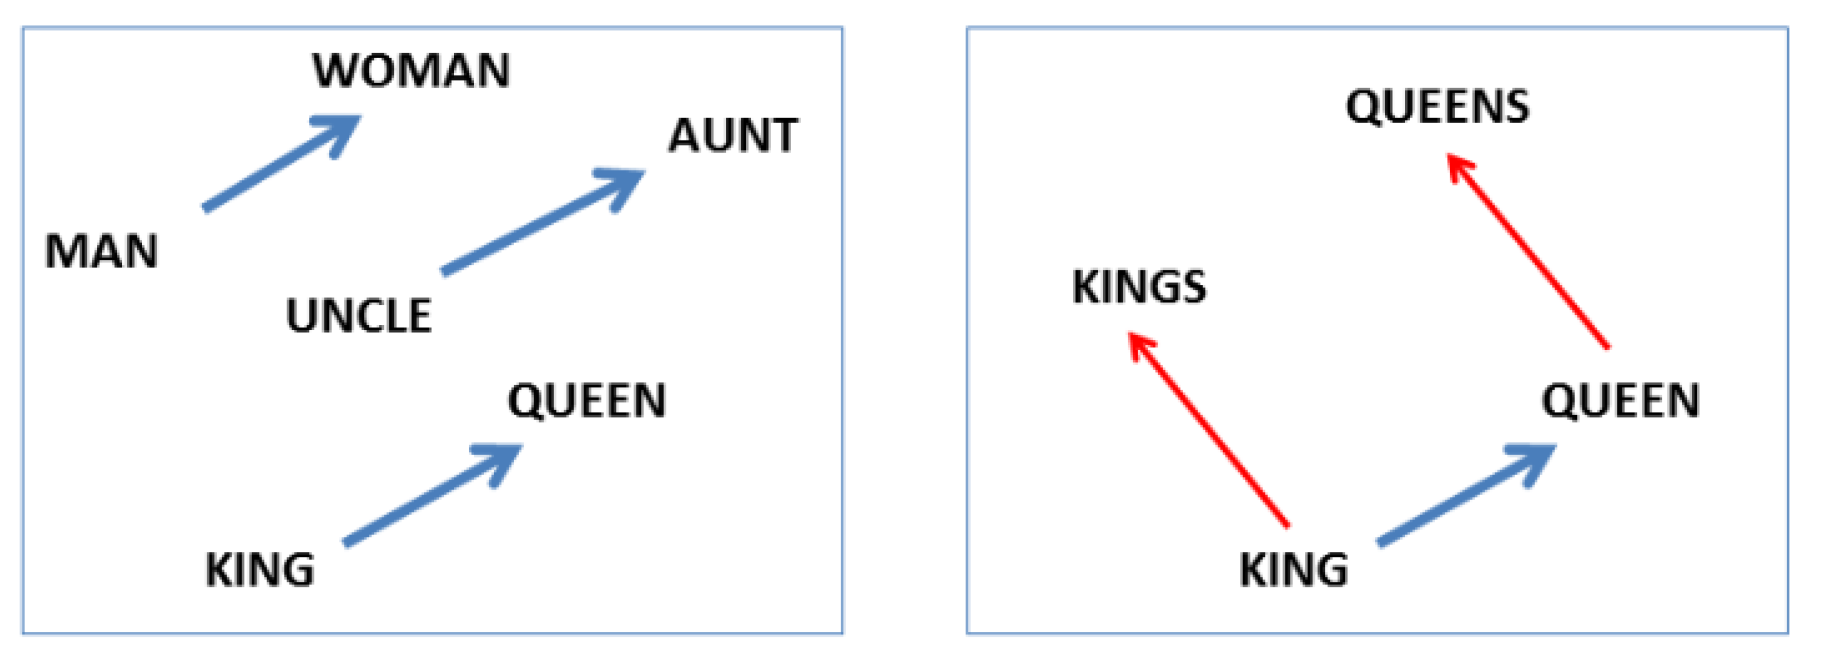
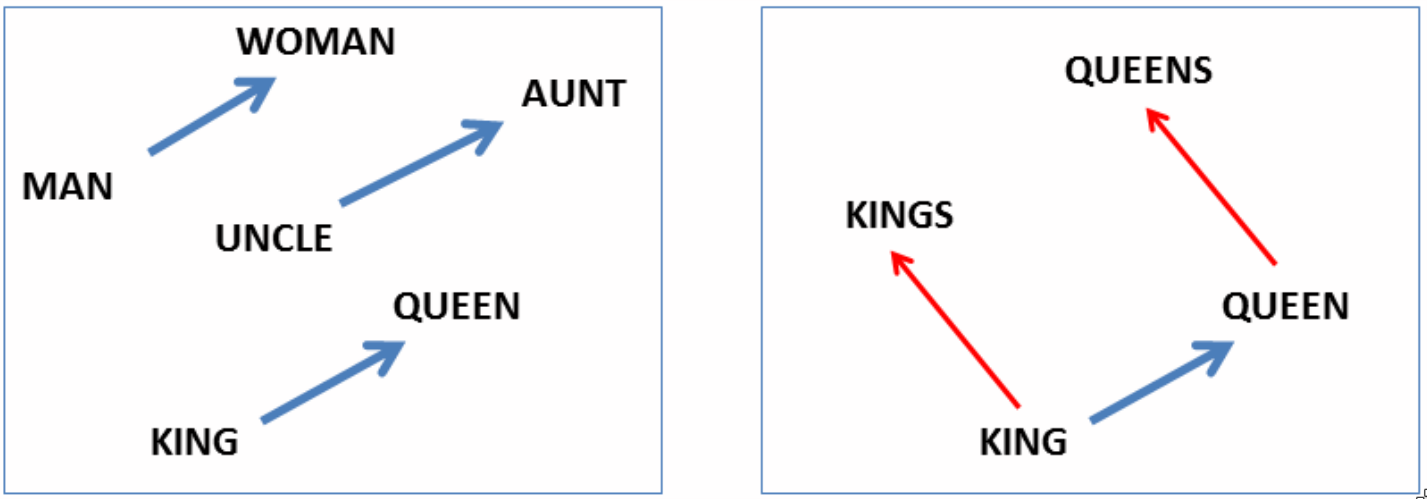
minor fixed, higher resolution images.

diff --git a/slides/aml-21-041118-word-embeddings/index.html b/slides/aml-21-041118-word-embeddings/index.html
@@ -57,15 +57,19 @@
       .padding-top {
           padding-top: 100px;
       }
-      .remark-slide-content .smaller p, .remark-slide-content .smaller li,
-      .remark-slide-content .smaller .remark-code, .remark-slide-content .smaller a{
+      .remark-slide-container .smaller p, .remark-slide-container .smaller li,
+      .remark-slide-container .smaller .remark-code, .remark-slide-container .smaller a{
           font-size: 25px;
       }
       .normal {
           font-size: 30px;
       }
-      .remark-slide-content .smallest p, .remark-slide-content .smallest li,
-      .remark-slide-content .smallest .remark-code, .remark-slide-content .smallest a{
+      .remark-slide-container .smallerr p, .remark-slide-container .smallerr li,
+      .remark-slide-container .smallerr .remark-code, .remark-slide-container .smallerr a{
+          font-size: 20px;
+      }
+      .remark-slide-container .smallest p, .remark-slide-container .smallest li,
+      .remark-slide-container .smallest .remark-code, .remark-slide-container .smallest a{
           font-size: 15px;
       }
 
@@ -264,8 +268,7 @@ likely, and which are not.
 
 
 .smallest[
-http://papers.nips.cc/paper/5021-distributed-representations-of-words-and-phrases-and-theircompositionality.
-pdf
+<a href="http://papers.nips.cc/paper/5021-distributed-representations-of-words-and-phrases-and-their-compositionality.pdf">Mikolov et. al. - Distributed Representations of Words and Phrases and their Compositionality (2013)</a>]
 ]
 ---
 # CBOW vs Skip-gram
@@ -433,18 +436,75 @@ w['queen'].shape
 (300,)
 ```
 ```python
-w.syn0.shape
+w.vectors.shape
 ```
 ```
 (3000000, 300)
 ```
+---
+# Cosine Similarity
+.padding-top[
+
+`$$\Large \text{similarity}(v, w)=\cos(\theta) = \frac{v^Tw}{\lVert v\rVert \lVert w \rVert}$$`
+]
+---
+class: smallerr
+# Inspecting Semantics
+```python
+w.most_similar(positive=['movie'], topn=5)
+```
+
+```
+[('film', 0.8676770925521851),
+ ('movies', 0.8013108968734741),
+ ('films', 0.7363011837005615),
+ ('moive', 0.6830361485481262),
+ ('Movie', 0.6693680286407471)]
+```
+--
+```python
+w.most_similar(positive=['good'], topn=5)
+```
+--
+```
+[('great', 0.7291510105133057),
+ ('bad', 0.7190051078796387),
+ ('terrific', 0.6889115571975708),
+ ('decent', 0.6837348341941833),
+ ('nice', 0.6836092472076416)]
+ ```
+--
+```python
+w.most_similar(positive=['cute', 'dog'], topn=5)
+```
+```
+[('puppy', 0.7645270228385925),
+ ('chihuahua', 0.7209305763244629),
+ ('adorable_puppy', 0.7108923196792603),
+ ('yorkie', 0.7013816833496094),
+ ('Shitzu', 0.7004074454307556)]
+ ```
 
 ---
 
-class: spacious
-# Prepare document
+# Prepare document (IMDB)
 
 .smallest[
+```python
+print(text_train_sub[0].decode())
+```
+```
+Maybe it's just because I have an intense fear of hospitals and medical stuff, but this one got under my skin
+(pardon the pun). This piece is brave, not afraid to go over the top and as satisfying as they come in terms
+of revenge movies. Not only did I find myself feeling lots of hatred for the screwer and lots of sympathy 
+towards the "screwee", I felt myself cringe and feel pangs of disgust at certain junctures which is really a
+rare and delightful thing for a somewhat jaded horror viewer like myself. Some parts are very reminiscant of
+"Hellraiser", but come off as tribute rather than imitation. It's a heavy handed piece that does not offer 
+the viewer much to consider, but I enjoy being assaulted by a film once and awhile. This piece brings it and 
+doesn't appologize.
+I liked this one a lot. Do NOT watch whilst eating pudding.
+```
+
 ```python
 vect_w2v = CountVectorizer(vocabulary=w.index2word)
 vect_w2v.fit(text_train_sub)
@@ -520,7 +580,7 @@ Find closest vector to vec(“Queen”) + (vect(“Kings”) - vec(“King”))
 ]
 
 .smallest[
-http://www.aclweb.org/anthology/N13-1090]
+<a href="http://www.aclweb.org/anthology/N13-1090">Mikolov et. al. Linguistic Regularities in Continuous Space Word Representations (2013)</a>]
 ---
 .center[
 ![:scale 80%](images/analogues.png)
@@ -528,7 +588,7 @@ http://www.aclweb.org/anthology/N13-1090]
 
 
 .smallest[
-http://papers.nips.cc/paper/5021-distributed-representations-of-words-and-phrases-and-theircompositionality.pdf]
+<a href="http://papers.nips.cc/paper/5021-distributed-representations-of-words-and-phrases-and-their-compositionality.pdf">Mikolov et. al. - Distributed Representations of Words and Phrases and their Compositionality (2013)</a>]
 
 ---
 
@@ -613,7 +673,9 @@ $\overrightarrow{man} - \overrightarrow{woman} \approx \overrightarrow{computer 
 .center[
 ![:scale 70%](images/doc2vec.png)
 ]
-
+.smallest[
+<a href="https://cs.stanford.edu/~quocle/paragraph_vector.pdf">Le, Mikolov: Distributed Representations of Sentences and Documents (2014)</a>
+]
 ???
 Add a vector for each paragraph / document, also
 randomly initialized.
@@ -639,7 +701,7 @@ def read_corpus(text, tokens_only=False):
 train_corpus = list(read_corpus(text_train_sub))
 test_corpus = list(read_corpus(text_val, tokens_only=True))
 
-model = gensim.models.doc2vec.Doc2Vec(size=300, min_count=2, iter=55)
+model = gensim.models.doc2vec.Doc2Vec(size=50, min_count=2, iter=55)
 model.build_vocab(train_corpus)
 
 model.train(train_corpus, total_examples=model.corpus_count)
@@ -695,6 +757,7 @@ lr.score(X_val, y_val)
 ???
 Not working well here. Either not enough training data,
 sgd didn’t converge yet, or too low dimension.
+FIXME combine with word vectors?
 
 ---
 
